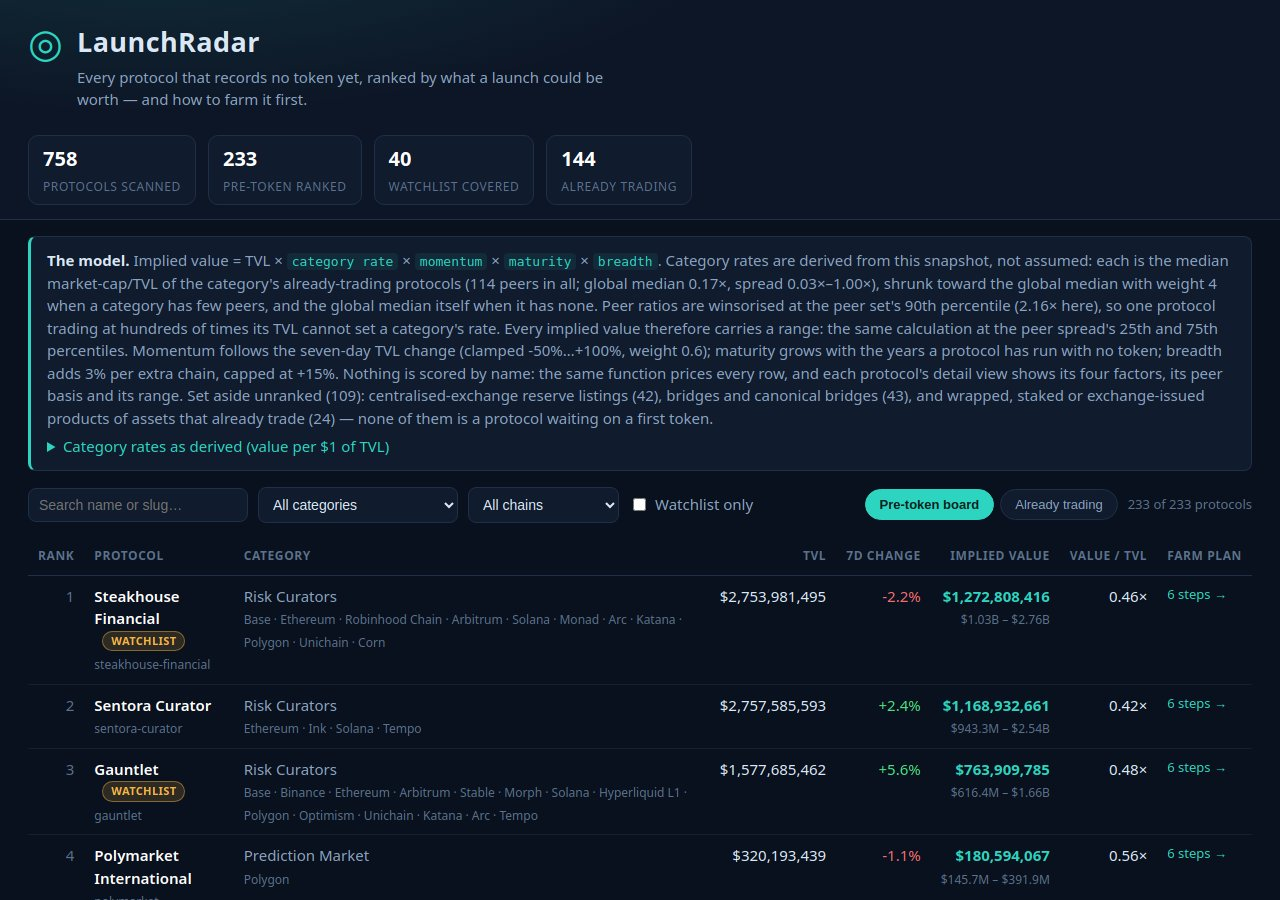
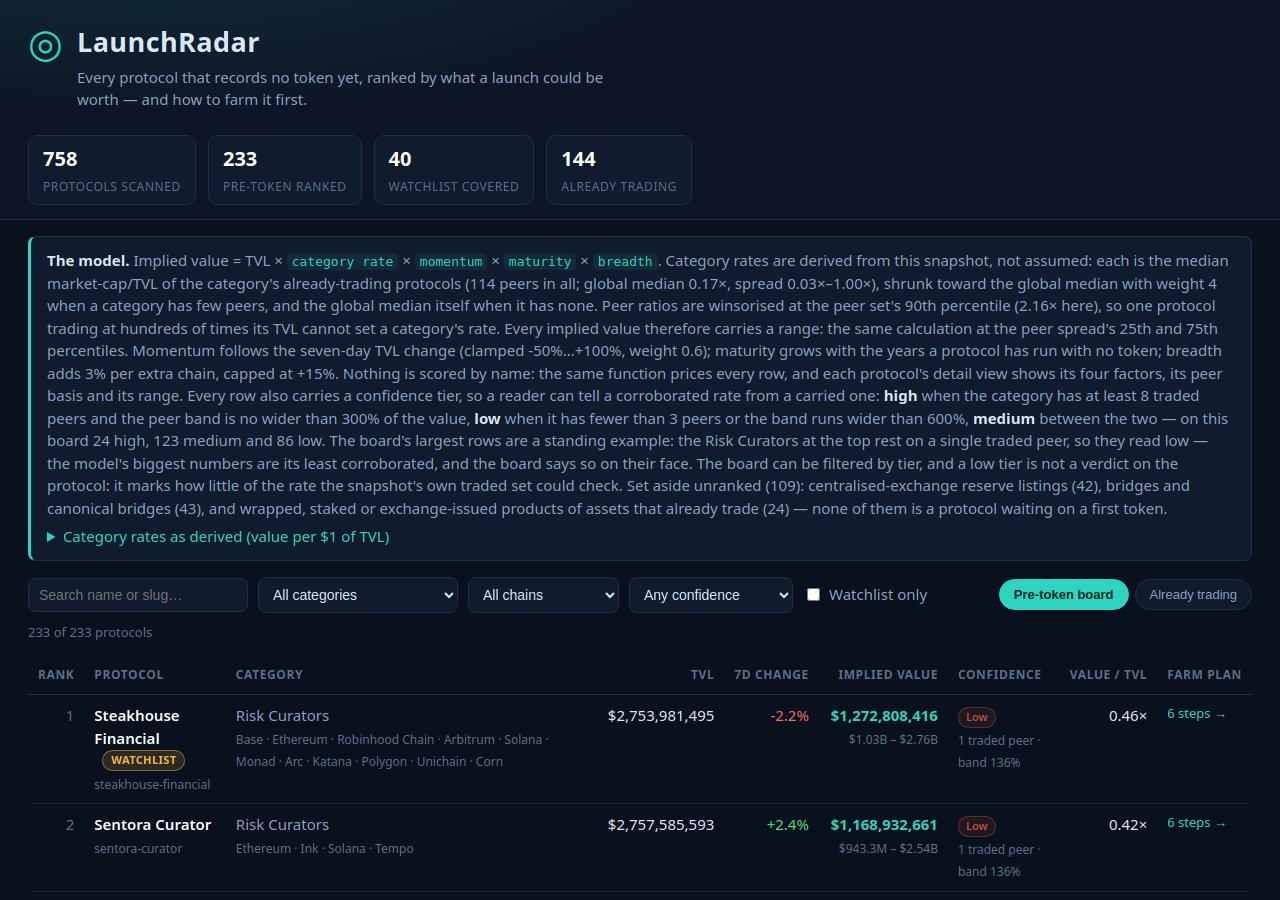
Round 4: confidence tiers from the round-2 base — every row states how much of its rate the snapshot corroborates (peers + band), filterable in the dashboard; pricing model unchanged

diff --git a/dashboard/app.js b/dashboard/app.js
@@ -16,6 +16,7 @@ const state = {
   q: params.get('q') ?? '',
   cat: params.get('cat') ?? '',
   chain: params.get('chain') ?? '',
+  conf: params.get('conf') ?? '',
   watch: params.get('watch') === '1',
   view: params.get('view') === 'live' ? 'live' : 'board',
   sort: 'rank',
@@ -43,6 +44,10 @@ $('model').innerHTML =
   `Momentum follows the seven-day TVL change (clamped ${R.model.momentum_floor}%…+${R.model.momentum_cap}%, weight ${R.model.momentum_weight}); ` +
   `maturity grows with the years a protocol has run with no token; breadth adds 3% per extra chain, capped at +15%. ` +
   `Nothing is scored by name: the same function prices every row, and each protocol's detail view shows its four factors, its peer basis and its range. ` +
+  `Every row also carries a confidence tier, so a reader can tell a corroborated rate from a carried one: <b>high</b> when the category has at least 8 traded peers and the peer band is no wider than 300% of the value, ` +
+  `<b>low</b> when it has fewer than 3 peers or the band runs wider than 600%, <b>medium</b> between the two — on this board ${R.model.confidence_counts.high} high, ${R.model.confidence_counts.medium} medium and ${R.model.confidence_counts.low} low. ` +
+  `The board's largest rows are a standing example: the Risk Curators at the top rest on a single traded peer, so they read low — the model's biggest numbers are its least corroborated, and the board says so on their face. ` +
+  `The board can be filtered by tier, and a low tier is not a verdict on the protocol: it marks how little of the rate the snapshot's own traded set could check. ` +
   `Set aside unranked (${R.aside.cex + R.aside.bridge + R.aside.product}): centralised-exchange reserve listings (${R.aside.cex}), bridges and canonical bridges (${R.aside.bridge}), and wrapped, staked or exchange-issued products of assets that already trade (${R.aside.product}) — none of them is a protocol waiting on a first token.` +
   `<details><summary>Category rates as derived (value per $1 of TVL)</summary><table><tr><th>Category</th><th>Traded peers</th><th>Rate used</th></tr>` +
   rates.map(([k, v]) => `<tr><td>${esc(k)}</td><td>${R.model.category_peers[k] ?? 0}</td><td>${v.toFixed(3)}</td></tr>`).join('') +
@@ -53,20 +58,24 @@ $('cat').innerHTML = `<option value="">All categories</option>` + R.categories.m
 $('chain').innerHTML = `<option value="">All chains</option>` + R.chains.map((c) => `<option ${c === state.chain ? 'selected' : ''}>${esc(c)}</option>`).join('');
 $('q').value = state.q;
 $('watch').checked = state.watch;
+$('conf').value = state.conf;
 
 function filtered() {
   const q = state.q.trim().toLowerCase();
   return R.rows.filter((r) =>
     (state.cat === '' || (r.category ?? 'Uncategorised') === state.cat) &&
     (state.chain === '' || r.chains.includes(state.chain)) &&
+    (state.conf === '' || r.confidence.tier === state.conf) &&
     (!state.watch || r.watchlist) &&
     (q === '' || r.name.toLowerCase().includes(q) || r.slug.includes(q)));
 }
 
+const TIER_ORDER = { high: 0, medium: 1, low: 2 };
 const SORTS = {
   rank: (r) => r.rank, name: (r) => r.name.toLowerCase(), category: (r) => (r.category ?? '').toLowerCase(),
   tvl: (r) => r.tvl_usd, change: (r) => (r.change_7d === null ? -Infinity : r.change_7d),
   implied: (r) => r.implied_value_usd, ratio: (r) => r.ratio,
+  conf: (r) => TIER_ORDER[r.confidence.tier] * 1000 - r.peers.n,
 };
 
 function renderBoard() {
@@ -83,6 +92,7 @@ function renderBoard() {
       <td class="num">${money(r.tvl_usd)}</td>
       <td class="num">${pct(r.change_7d)}</td>
       <td class="num implied">${money(r.implied_value_usd)}<br><span class="range">${compact(r.implied_low_usd)} – ${compact(r.implied_high_usd)}</span></td>
+      <td><span class="conf conf-${r.confidence.tier}">${r.confidence.tier}</span><br><span class="chains">${r.peers.n} traded peer${r.peers.n === 1 ? '' : 's'} · band ${r.confidence.band_pct}%</span></td>
       <td class="num">${r.ratio.toFixed(2)}×</td>
       <td class="plan">${r.farm_steps.length} steps →</td>
     </tr>`).join('');
@@ -111,6 +121,7 @@ function openDetail(slug) {
       <div class="fact"><b>${money(r.tvl_usd)}</b><span>TVL</span></div>
       <div class="fact"><b>${money(r.implied_value_usd)}</b><span>Implied value</span><div class="range">peer range ${compact(r.implied_low_usd)} – ${compact(r.implied_high_usd)}</div></div>
       <div class="fact"><b>${r.ratio.toFixed(2)}×</b><span>Value / TVL</span></div>
+      <div class="fact"><b style="text-transform:capitalize">${r.confidence.tier}</b><span>Confidence</span><div class="range">${r.peers.n} traded peer${r.peers.n === 1 ? '' : 's'} · peer band ${r.confidence.band_pct}% of value</div></div>
       <div class="fact"><b>${r.change_7d === null ? '—' : `${r.change_7d > 0 ? '+' : ''}${r.change_7d.toFixed(1)}%`}</b><span>TVL change, 7d</span></div>
       <div class="fact"><b>${esc(r.listed_at ?? 'unknown')}</b><span>Tracked since</span></div>
       <div class="fact"><b>${esc(r.chains.join(', ') || '—')}</b><span>Chains</span></div>
@@ -148,6 +159,7 @@ function setView(v) {
 $('q').addEventListener('input', (e) => { state.q = e.target.value; renderBoard(); });
 $('cat').addEventListener('change', (e) => { state.cat = e.target.value; renderBoard(); });
 $('chain').addEventListener('change', (e) => { state.chain = e.target.value; renderBoard(); });
+$('conf').addEventListener('change', (e) => { state.conf = e.target.value; renderBoard(); });
 $('watch').addEventListener('change', (e) => { state.watch = e.target.checked; renderBoard(); });
 $('view-board').addEventListener('click', () => setView('board'));
 $('view-live').addEventListener('click', () => setView('live'));

diff --git a/lib/model.ts b/lib/model.ts
@@ -100,6 +100,7 @@ export interface RowDetail {
   implied_low_usd: number;
   implied_high_usd: number;
   peers: { n: number; median: number };
+  confidence: { tier: 'high' | 'medium' | 'low'; band_pct: number };
   flags: string[];
   ratio: number;
   factors: { category_rate: number; momentum: number; maturity: number; breadth: number };
@@ -140,6 +141,7 @@ export interface RadarData {
     momentum_weight: number;
     momentum_floor: number;
     momentum_cap: number;
+    confidence_counts: { high: number; medium: number; low: number };
   };
 }
 
@@ -229,6 +231,29 @@ export function factorsOf(p: SnapshotProtocol, asOf: string, categoryRate: numbe
   const maturity = age === null ? 0.775 : 0.55 + 0.45 * (Math.min(age, 1460) / 1460);
   const breadth = 1 + 0.03 * Math.min(Math.max(p.chains.length - 1, 0), 5);
   return { category_rate, momentum, maturity, breadth };
+}
+
+/**
+ * How much evidence stands behind one row's rate, stated as a tier.
+ * band_pct is the width of the row's peer-spread range as a percentage
+ * of its implied value: a narrow band over many traded peers is a rate
+ * the snapshot itself corroborates; a wide band over few peers is a
+ * rate carried mostly by the shrinkage toward the global median.
+ *   high   — at least 8 traded peers and a band no wider than 300%
+ *   low    — fewer than 3 traded peers, or a band wider than 600%
+ *   medium — everything between
+ * The thresholds sit on this snapshot's own scale: peer bands here run
+ * wide (the median row's band is ~470% of its value), so a tier rule
+ * borrowed from tighter markets would call every row low and say
+ * nothing. Note what the tiers expose on this board: the largest
+ * category by implied value rests on a single traded peer, so its rows
+ * read low — the model flags its own biggest numbers as its least
+ * corroborated, which is the honest way round.
+ */
+export function confidenceOf(peers: number, bandPct: number): 'high' | 'medium' | 'low' {
+  if (peers < 3 || bandPct > 600) return 'low';
+  if (peers >= 8 && bandPct <= 300) return 'high';
+  return 'medium';
 }
 
 /** Factual cautions a row carries, read from its own figures only. */
@@ -394,6 +419,10 @@ export function buildRadar(snapshot: Snapshot): { board: BoardRow[]; radar: Rada
     implied_low_usd: s.implied_low,
     implied_high_usd: s.implied_high,
     peers: { n: s.ri.peers, median: Math.round(s.ri.median * 1000) / 1000 },
+    confidence: {
+      tier: confidenceOf(s.ri.peers, Math.round(((s.implied_high - s.implied_low) / s.implied) * 100)),
+      band_pct: Math.round(((s.implied_high - s.implied_low) / s.implied) * 100),
+    },
     flags: flagsOf(s.p, snapshot.as_of, s.ri),
     ratio: Math.round((s.implied / Math.max(1, s.p.tvl_usd)) * 1000) / 1000,
     factors: s.f,
@@ -441,6 +470,11 @@ export function buildRadar(snapshot: Snapshot): { board: BoardRow[]; radar: Rada
       momentum_weight: MOMENTUM_WEIGHT,
       momentum_floor: MOMENTUM_FLOOR,
       momentum_cap: MOMENTUM_CAP,
+      confidence_counts: {
+        high: rows.filter((r) => r.confidence.tier === 'high').length,
+        medium: rows.filter((r) => r.confidence.tier === 'medium').length,
+        low: rows.filter((r) => r.confidence.tier === 'low').length,
+      },
     },
   };
   return { board, radar };

diff --git a/dashboard/index.html b/dashboard/index.html
@@ -24,6 +24,12 @@
   <input id="q" type="search" placeholder="Search name or slug…" aria-label="Search protocols">
   <select id="cat" aria-label="Filter by category"></select>
   <select id="chain" aria-label="Filter by chain"></select>
+  <select id="conf" aria-label="Filter by confidence">
+    <option value="">Any confidence</option>
+    <option value="high">High confidence</option>
+    <option value="medium">Medium confidence</option>
+    <option value="low">Low confidence</option>
+  </select>
   <label class="check"><input id="watch" type="checkbox"> Watchlist only</label>
   <div class="views">
     <button id="view-board" class="viewbtn active" type="button">Pre-token board</button>
@@ -42,6 +48,7 @@
         <th data-sort="tvl" class="num">TVL</th>
         <th data-sort="change" class="num">7d change</th>
         <th data-sort="implied" class="num">Implied value</th>
+        <th data-sort="conf">Confidence</th>
         <th data-sort="ratio" class="num">Value / TVL</th>
         <th>Farm plan</th>
       </tr>

diff --git a/dashboard/app.css b/dashboard/app.css
@@ -112,3 +112,9 @@ footer { padding: 6px 28px 26px; color: var(--faint); font-size: 13px; max-width
   padding: 1px 8px; border-radius: 999px; font-size: 11px; font-weight: 600;
   background: rgba(245,181,68,.08); color: var(--amber); border: 1px solid rgba(245,181,68,.4);
 }
+
+/* Confidence tiers: how much of a row's rate the snapshot itself corroborates. */
+.conf { display: inline-block; padding: 1px 7px; border-radius: 999px; font-size: 11px; font-weight: 600; text-transform: capitalize; border: 1px solid transparent; }
+.conf-high { background: rgba(46, 160, 90, 0.16); color: #2ea05a; border-color: rgba(46, 160, 90, 0.45); }
+.conf-medium { background: rgba(200, 150, 40, 0.14); color: #c89628; border-color: rgba(200, 150, 40, 0.45); }
+.conf-low { background: rgba(190, 80, 60, 0.12); color: #be503c; border-color: rgba(190, 80, 60, 0.4); }
